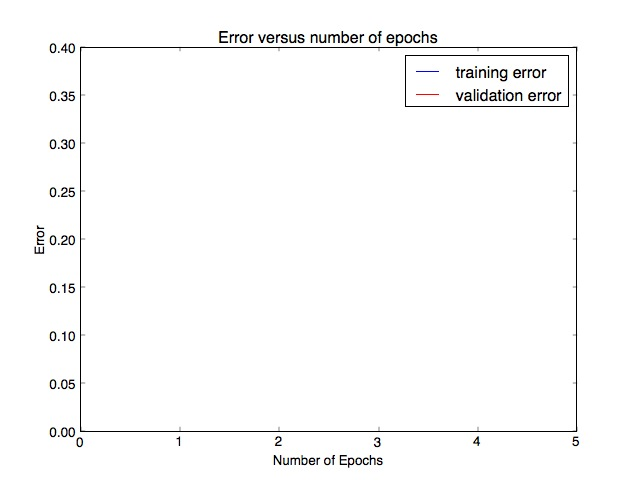
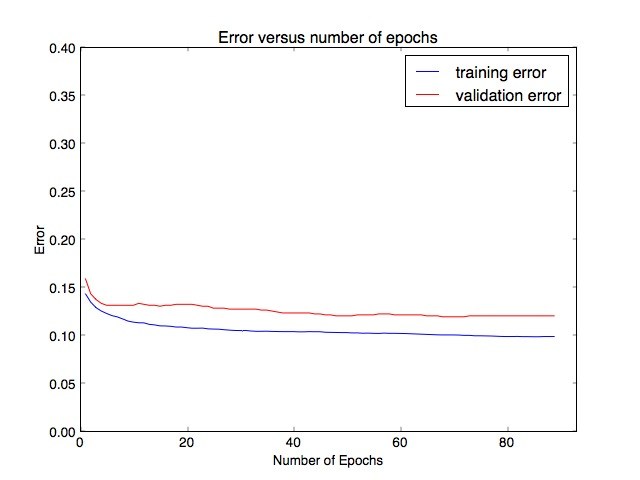
wrote custom

diff --git a/hw2/neural_net_impl.py b/hw2/neural_net_impl.py
@@ -393,19 +393,90 @@ class HiddenNetwork(EncodedNetworkFramework):
 #<--- Problem 3, Question 8 ---> 
 
 class CustomNetwork(EncodedNetworkFramework):
-  def __init__(self):
+  def __init__(self, number_of_hidden_nodes=10):
     """
     Arguments:
     ---------
-    Your pick.
+    number_of_hidden_nodes : the number of hidden nodes to create (an integer) for each quadrant
 
     Returns:
     --------
-    Your pick
+    Nothing
 
     Description:
     -----------
-    Surprise me!
+    Has a hidden layer that is not fully connected. The image is split into 4 quadrants, which are 
+    trained on separately before combined
+    0   1   2   3   4   5   6  | 7   8   9   10  11  12  13
+    14  15  16  17  18  19  20 | 21  22  23  24  25  26  27
+    28  29  30  31  32  33  34 | 35  36  37  38  39  40  41
+    42  43  44  45  46  47  48 | 49  50  51  52  53  54  55
+    56  57  58  59  60  61  62 | 63  64  65  66  67  68  69
+    70  71  72  73  74  75  76 | 77  78  79  80  81  82  83 
+    84  85  86  87  88  89  90 | 91  92  93  94  95  96  97
+    ---------------------------|---------------------------  
+    98  99  100 ...            |
+    ...                        |
+    182 183 184 185 186 187 188| 189 190 191 192 193 194 195
+
+    quadrant 1: i < 98, i%14 < 7
+    quadrant 2: i < 98, i%14 > 6
+    quadrant 3: i > 97, i%14 < 7
+    quadrant 4: i > 97, i%14 > 6
+
+
     """
     super(CustomNetwork, self).__init__() # <Don't remove this line>
-    pass
+    
+    # 1) Adds an input node for each pixel
+    # from above
+    DIM = 14
+    DIGITS = 10
+    q1inputs = []
+    q2inputs = []
+    q3inputs = []
+    q4inputs = []
+    q1hidden = []
+    q2hidden = []
+    q3hidden = []
+    q4hidden = []
+    for i in range(DIM*DIM):
+      newin = Node()
+      if i < 98 and i%14 < 7:
+        q1inputs.append(newin)
+      elif i < 98 and i%14 > 6:
+        q2inputs.append(newin)
+      elif i > 97 and i%14 < 7:
+        q3inputs.append(newin)
+      else:
+        q4inputs.append(newin)
+      self.network.AddNode(newin,self.network.INPUT)
+
+    # 2) Adds the hidden layer
+    for i in range(number_of_hidden_nodes):
+      newq1 = Node()
+      newq2 = Node()
+      newq3 = Node()
+      newq4 = Node()
+      for k in range(DIM*DIM/4):
+        newq1.AddInput(q1inputs[k],None,self.network)
+        newq2.AddInput(q2inputs[k],None,self.network)
+        newq3.AddInput(q3inputs[k],None,self.network)
+        newq4.AddInput(q4inputs[k],None,self.network)
+      q1hidden.append(newq1)
+      q2hidden.append(newq2)
+      q3hidden.append(newq3)
+      q4hidden.append(newq4)
+      self.network.AddNode(newq1,self.network.HIDDEN)
+      self.network.AddNode(newq2,self.network.HIDDEN)
+      self.network.AddNode(newq3,self.network.HIDDEN)
+      self.network.AddNode(newq4,self.network.HIDDEN)
+    # 3) Adds an output node for each possible digit label.
+    for j in range(DIGITS):
+      newout = Node()
+      for k in range(number_of_hidden_nodes):
+        newout.AddInput(q1hidden[k],None,self.network)
+        newout.AddInput(q2hidden[k],None,self.network)
+        newout.AddInput(q3hidden[k],None,self.network)
+        newout.AddInput(q4hidden[k],None,self.network)
+      self.network.AddNode(newout,self.network.OUTPUT)

diff --git a/hw2/neural_net.py b/hw2/neural_net.py
@@ -247,13 +247,13 @@ class NetworkFramework(object):
     ys2 = validationerror
     p1, = plt.plot(xs, ys, color='b')
     p2, = plt.plot(xs, ys2, color='r')
-    plt.title('Error versus number of epochs')
+    plt.title('Error versus number of epochs - Custom')
     plt.xlabel('Number of Epochs')
     plt.ylabel('Error')
     plt.axis([0, epoch_num + 4, 0, 0.4])
 
     plt.legend([p1,p2], ['training error','validation error'], 'upper right')
-    savefig('errorsimple-0.1.jpg') # save the figure to a file
+    savefig('errorcustom-0.1.jpg') # save the figure to a file
     plt.show() # show the figure
 
     return(performance_log)
